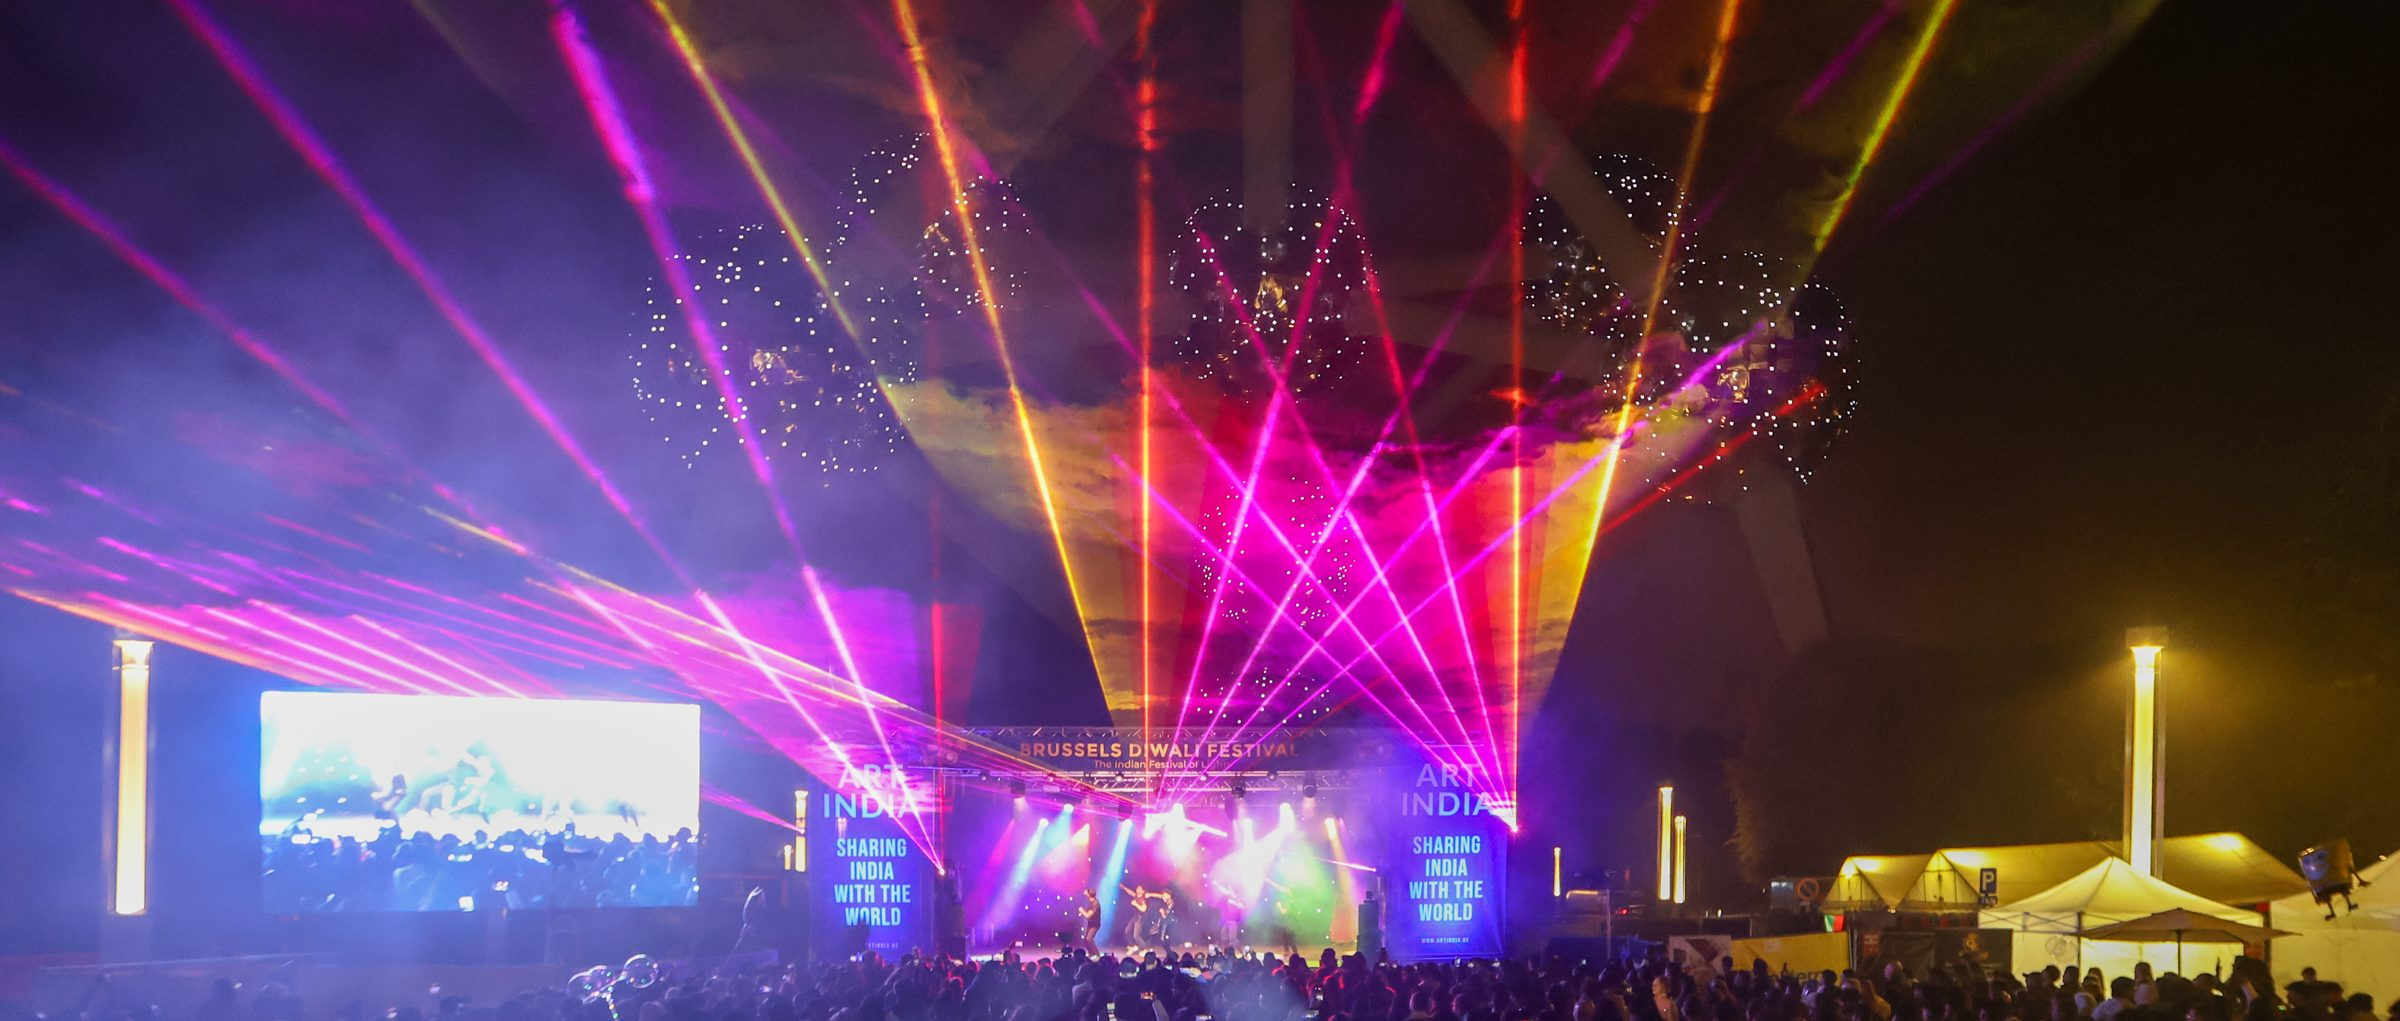
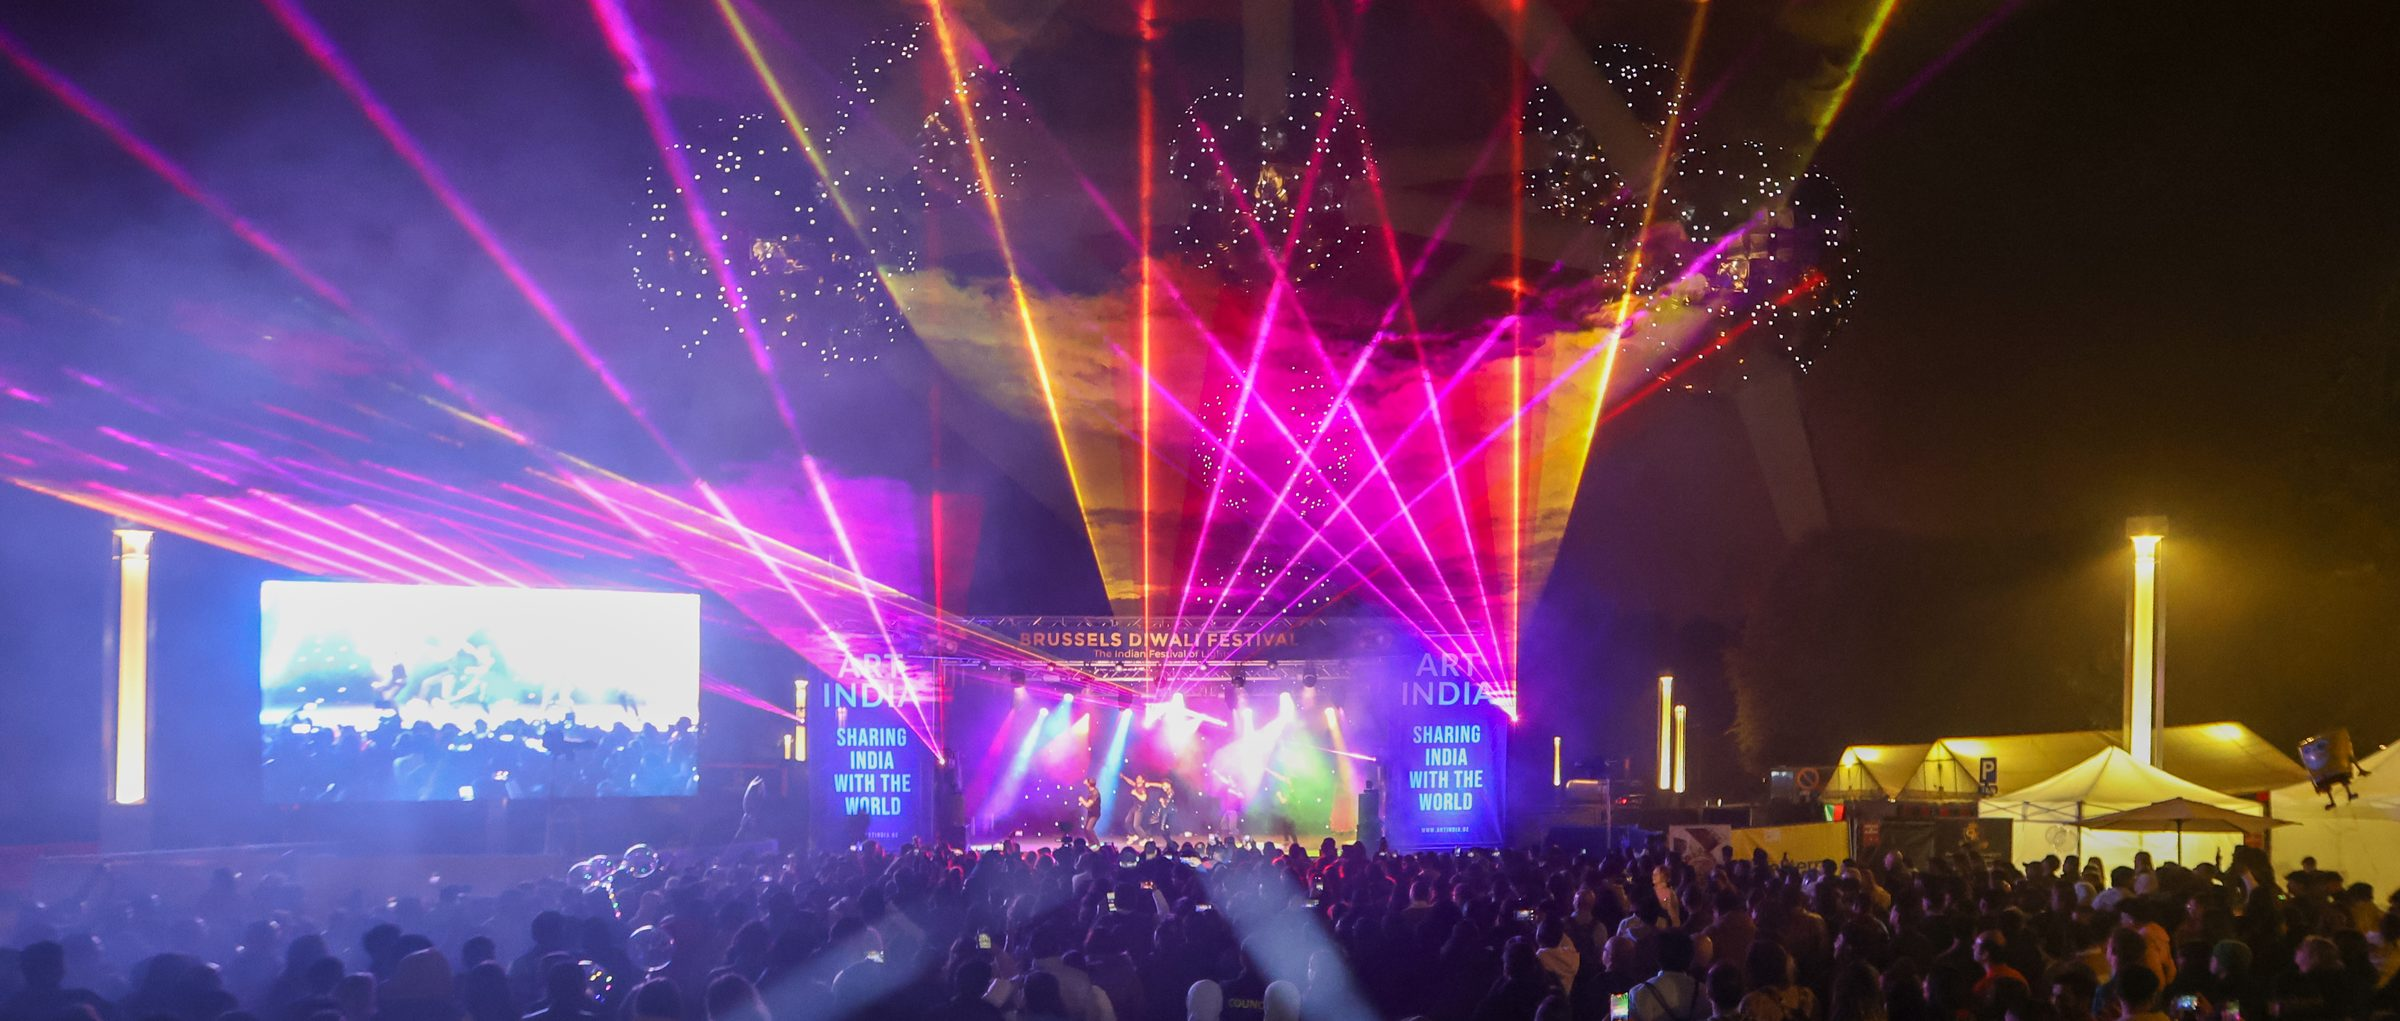
Update site

diff --git a/static/style.css b/static/style.css
@@ -77,9 +77,15 @@ a:hover{border-bottom-color:var(--rust)}
 header{border-bottom:1px solid var(--rule);background:var(--paper);position:sticky;top:0;z-index:20}
 .head{display:flex;align-items:baseline;justify-content:space-between;
   gap:12px 28px;padding-block:16px;flex-wrap:wrap}
-.brand{font-family:var(--display);font-size:26px;letter-spacing:-.005em;
-  border:none;padding:0;white-space:nowrap;line-height:1}
-.brand span{color:var(--rust)}
+.brand{display:flex;align-items:center;gap:11px;border:none;padding:0;
+  white-space:nowrap;line-height:1}
+.brand img{width:38px;height:auto;flex:none}
+.brand-name{font-family:var(--display);font-size:23px;letter-spacing:1.4px;
+  color:var(--ink);line-height:1}
+@media(max-width:719px){
+  .brand img{width:32px}
+  .brand-name{font-size:20px;letter-spacing:1.1px}
+}
 nav.main{display:flex;gap:2px 22px;flex-wrap:wrap;align-items:baseline}
 nav.main a{font-size:15.5px;font-weight:500;color:var(--ink-2);border:none;padding:0;
   letter-spacing:.01em}

diff --git a/templates/base.html b/templates/base.html
@@ -30,7 +30,9 @@
 
 <header>
   <div class="wrap head">
-    <a class="brand" href="{{HOME}}">Art India<span>.</span></a>
+    <a class="brand" href="{{HOME}}">
+      <img src="{{ROOT}}static/logo.svg" alt="" width="40" height="46" aria-hidden="true">
+      <span class="brand-name">ART INDIA</span></a>
     <nav class="main" aria-label="Main">{{NAV}}</nav>
     <div class="langs">{{LANGS}}</div>
   </div>
